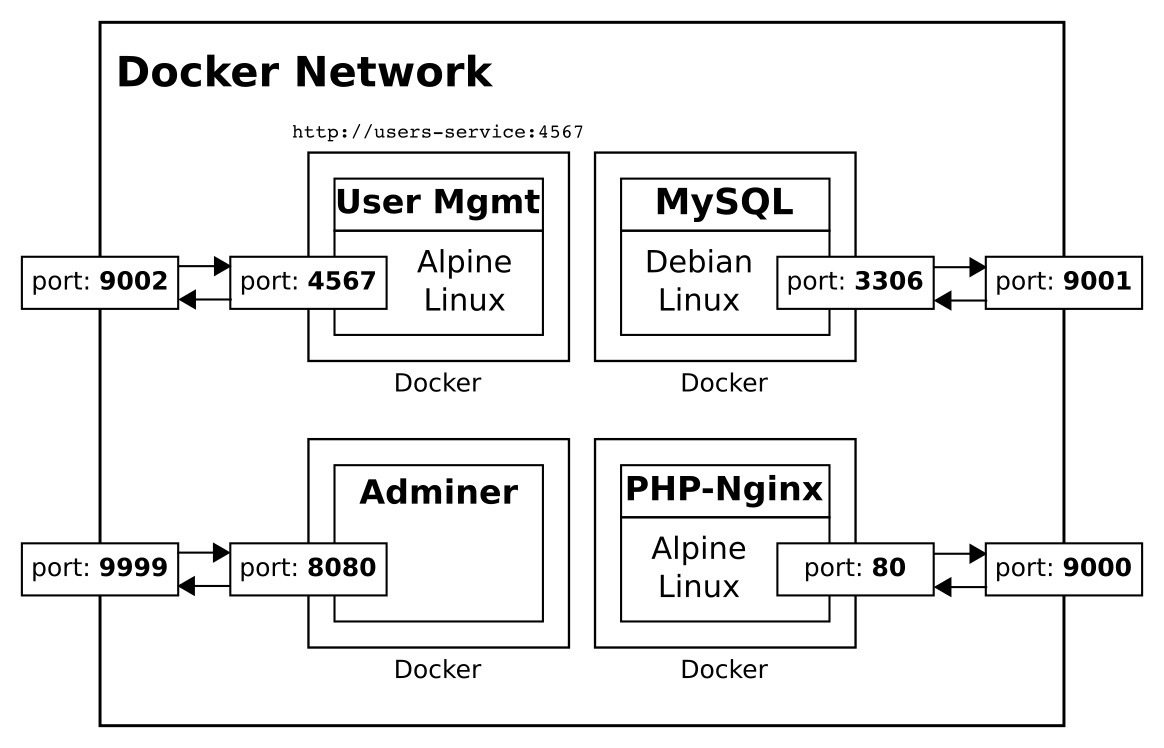
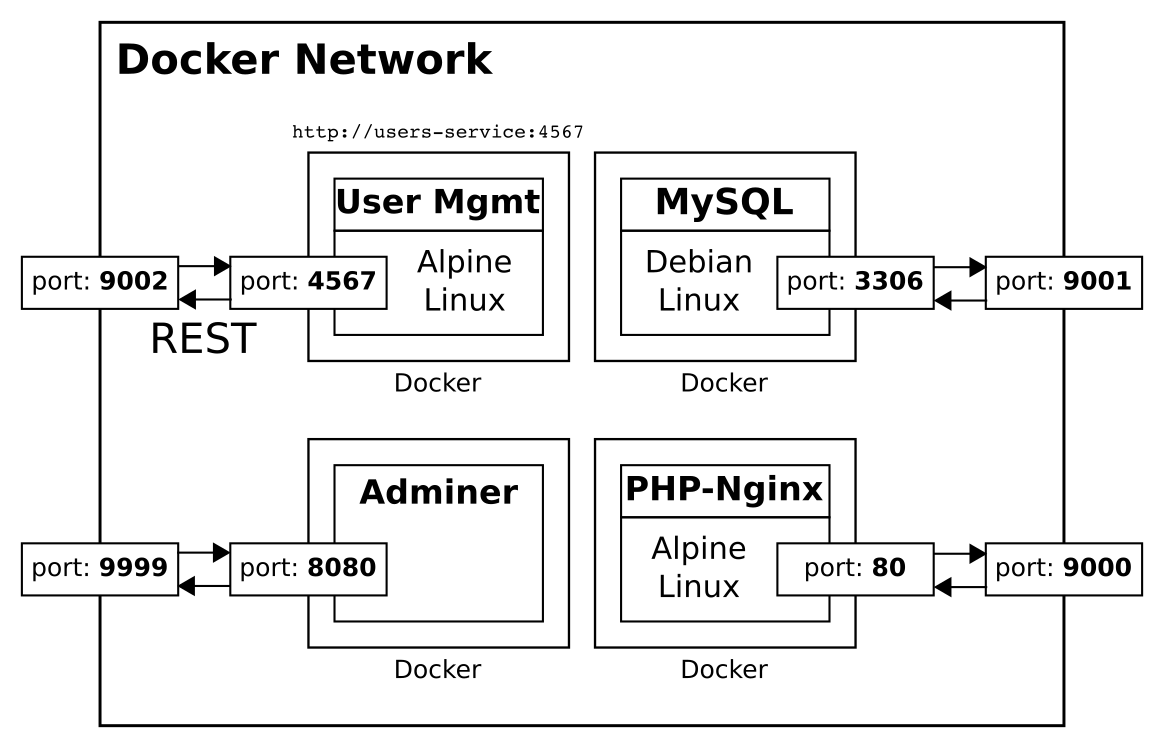
Docker scheme image added.

Changed region(s): [[0.0928, 0.0615, 0.433, 0.123], [0.1237, 0.4305, 0.2165, 0.492]]

diff --git a/README.md b/README.md
@@ -1,20 +1,27 @@
 # micromoo
 
-A microservice-based MOO, in early stages of development, created for educational purposes.
+A microservice-based MOO in early stages of development.
 
 **Current structure**
 
-Currently the system is composed by the following three microservices:
+Currently the system is composed by the following microservices:
 
-* Database service.
-* Web service.
-* User management service.
+* A database service;
+* A web service;
+* and a User Management service.
 
-The Database service is composed by a container containing a MySQL database running on an Alpine Linux.
-The Web service is composed by a Nginx websever running on a Alpine Linux. The service currently hosts a couple of PHP webpages that implement the temporary interface with the User Management service.
-The User Management service is composed by a Java application running on top of an Alpine Linux. The communication with the service is made through a RESTful interface implemented with Spark.
+The database service is composed by a container containing a MySQL database running on Alpine Linux.
+The Web service is composed by a Nginx webserver running on Alpine Linux. The service currently hosts a couple of PHP webpages that implement the temporary interface with the User Management service.
+The User Management service is composed by a Java application running on top of Alpine Linux. The communication with the service is made through a RESTful interface implemented with Spark.
+Each service is hosted in a separate Docker container. There is actually a fourth container in charge of the Adminer, a database web interface system, but it is not part of Micromoo itself and serves only as a debugging tool.
+
+The following image illustrates how the containers are organized inside the Docker Network and how the containers' ports map to the host machine ports:
+
+****** ADD IMAGE HERE ******
 
 **Compiling and setting up Micromoo**
+
+Before compiling and installing Micromoo, you must have docker and Java installed. Once you have everything properly installed, at the root of the project directory tree issue the following commands:
 
 1. ```$ mvn compile```
 2. ```$ mvn package -Dmaven.test.skip=true``` (to skip the JUnit tests)
@@ -36,6 +43,7 @@ To access Micromoo, just open the following URL on a web browser:
 * Implement an API gateway.
 * Implement a token based authentication system (*e.g.* JWT, OAuth, ...).
 * Include data persistence.
+* And lots and lots of other things...
 
 **References**
 
